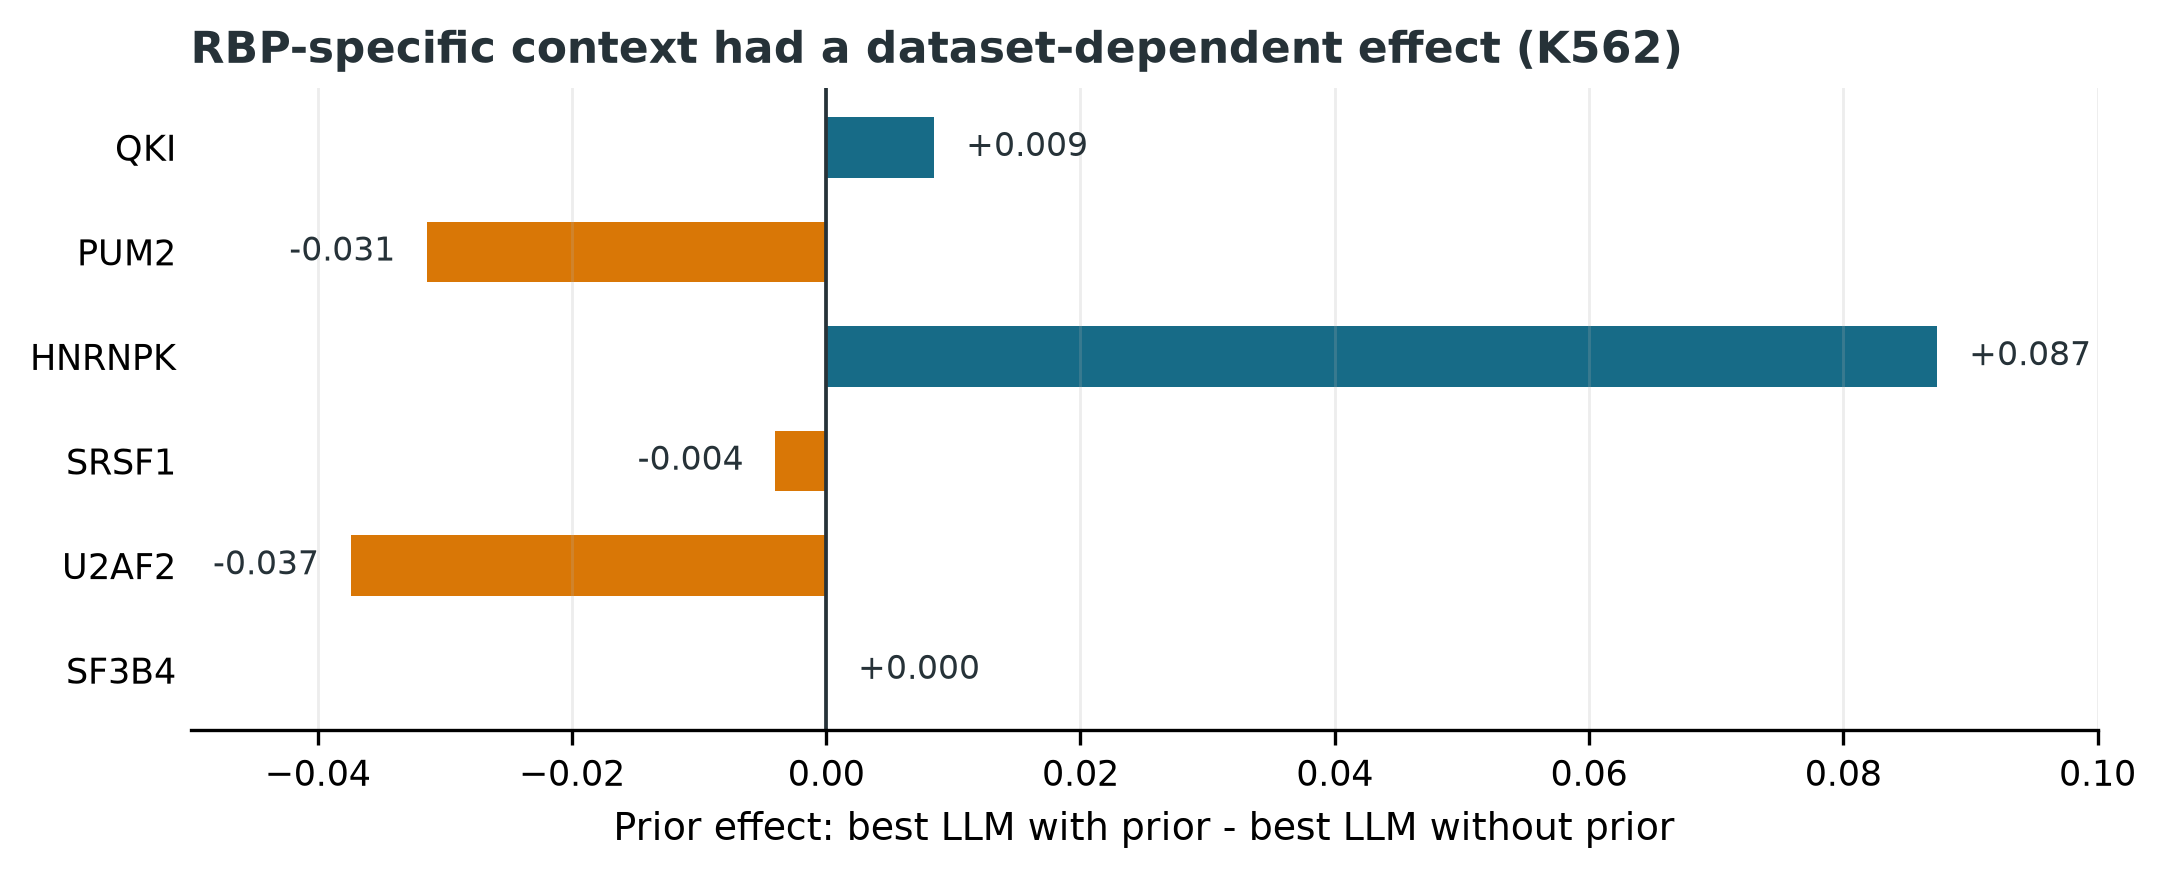
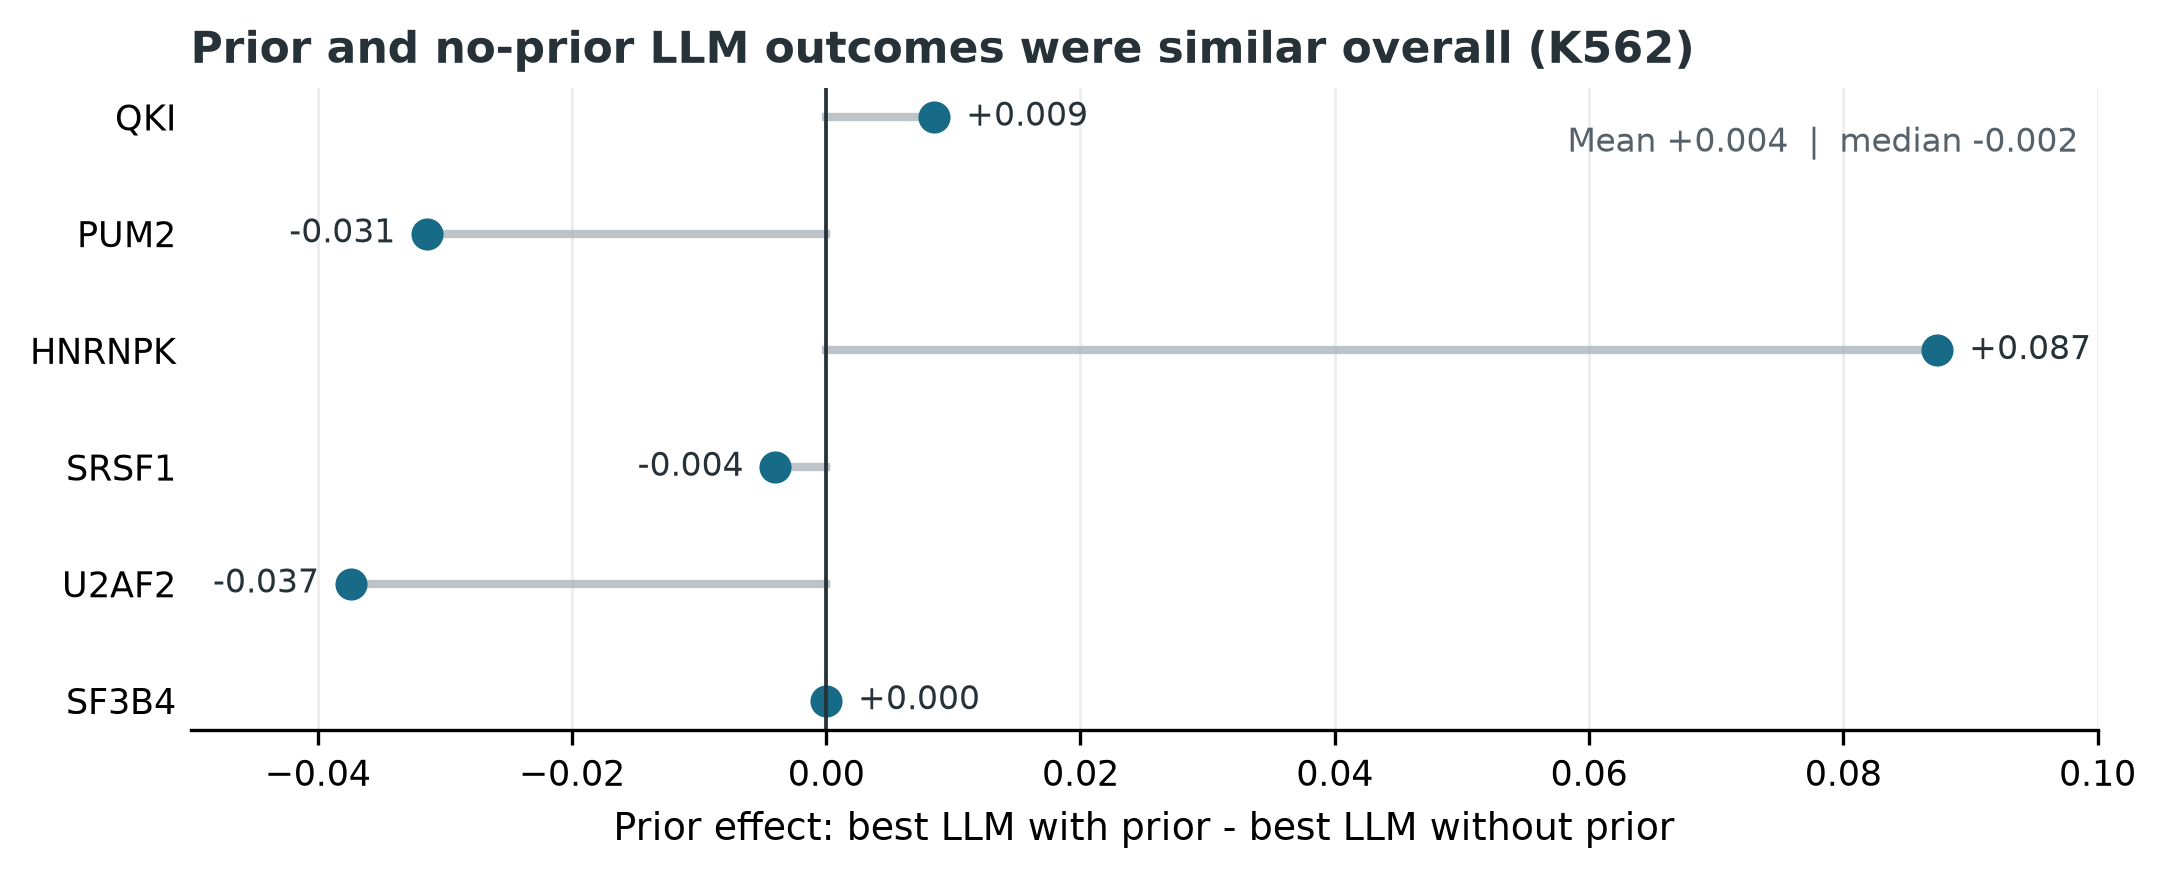
docs: temper prior ablation takeaway

diff --git a/docs/report/sections/4_results.tex b/docs/report/sections/4_results.tex
@@ -43,22 +43,25 @@ cohort. TPE also had ten startup samples before its stagnation rule applied. The
 comparison therefore measures the best result under the implemented stopping
 rules, not equal-budget sample efficiency.
 
-\subsection{Biological context had a dataset-dependent effect}
+\subsection{Prior and no-prior outcomes were similar overall}
 
-Six K562 datasets have both LLM conditions (Figure~\ref{fig:prior}). The prior
-increased the best score for HNRNPK by 0.087 and QKI by 0.009, decreased it for
-PUM2 by 0.031, U2AF2 by 0.037, and SRSF1 by 0.004, and made no difference for
-SF3B4. For the pre-specified crisp--degenerate--positional gradient, only HNRNPK
-benefited; PUM2 and U2AF2 did not. The additional datasets likewise show no
-uniform direction. RBP-specific context changed search outcomes, but these
-single-run ablations do not establish a class-level effect.
+Six K562 datasets have both LLM conditions (Figure~\ref{fig:prior}). Across these
+runs, the mean prior-minus-no-prior difference was $+0.004$ and the median was
+$-0.002$. The two conditions were therefore nearly even in aggregate, with only
+a slight mean edge for the prior that was driven by HNRNPK ($+0.087$). The other
+differences were smaller and mixed: QKI $+0.009$, PUM2 $-0.031$, U2AF2 $-0.037$,
+SRSF1 $-0.004$, and SF3B4 $0.000$. For the pre-specified
+crisp--degenerate--positional gradient, the directions did not form a monotonic
+trend. These single-run ablations support a dataset-specific interpretation but
+do not establish a general prior advantage or a class-level effect.
 
 \begin{figure}[H]
 \centering
 \includegraphics[width=0.84\linewidth]{images/prior_ablation.png}
-\caption{Effect of biological context on the best LLM score in six K562
-datasets. Positive values favor the prior-equipped arm. Each difference compares
-one trajectory per condition and has no uncertainty estimate.}
+\caption{Difference between the best prior and no-prior LLM scores in six K562
+datasets. The aggregate difference is close to zero; positive values favor the
+prior-equipped arm. Each point compares one trajectory per condition and has no
+uncertainty estimate.}
 \label{fig:prior}
 \end{figure}
 

diff --git a/docs/report/sections/5_discussion.tex b/docs/report/sections/5_discussion.tex
@@ -11,17 +11,16 @@ changes to increases above 0.20. This variation supports dataset-specific tuning
 although the current sample is too small to identify which experimental
 properties predict a gain.
 
-Second, biological context influenced LLM performance, but not uniformly. The
-positive HNRNPK ablation result is biologically plausible: C-rich motif and
-footprint information directed the agent toward sharper, more strongly supported
-calls. However, the same prior formulation reduced the best score on PUM2,
-U2AF2, and slightly on SRSF1, while SF3B4 was unchanged. For U2AF2, sequence
-motifs are an incomplete description of binding because position relative to
-splice sites is central. More generally, one trajectory per condition cannot
-distinguish a protein-class effect from dataset idiosyncrasies or stochastic LLM
-behavior. The HNRNPK result should therefore be treated as a candidate mechanism
-for further testing, not evidence that priors generally benefit proteins with
-degenerate motifs.
+Second, prior and no-prior LLM performance was broadly comparable. The mean
+difference gave the prior a slight edge of 0.004, but the median was $-0.002$:
+two datasets favored the prior, three favored no prior, and one was tied. The
+larger positive HNRNPK difference accounts for the small mean advantage, whereas
+the remaining differences were modest and mixed. This is consistent with a
+dataset-specific effect rather than a systematic benefit of biological context.
+For U2AF2, sequence motifs are also an incomplete description of binding because
+position relative to splice sites is central. With one trajectory per condition,
+protein-class effects cannot be separated from dataset idiosyncrasies or
+stochastic LLM behavior.
 
 TPE had the higher observed score in ten of 12 completed pairs. This is a
 consistent descriptive pattern across both cell lines. It is not, however,

diff --git a/scripts/analysis/report_figures.py b/scripts/analysis/report_figures.py
@@ -37,9 +37,6 @@ PRIOR_ABLATIONS = ["QKI", "PUM2", "HNRNPK", "SRSF1", "U2AF2", "SF3B4"]
 COLORS = {
     "llm": "#176B87",
     "optuna": "#6D4C7D",
-    "positive": "#176B87",
-    "negative": "#D97706",
-    "neutral": "#7A838C",
     "ink": "#263238",
     "line": "#BCC4CA",
 }
@@ -167,14 +164,13 @@ def fig_prior_ablation(by_job, outdir: Path):
         deltas.append(with_prior - without_prior)
 
     y_positions = list(range(len(PRIOR_ABLATIONS)))[::-1]
-    colors = [
-        COLORS["positive"] if delta > 0.00005 else
-        COLORS["negative"] if delta < -0.00005 else
-        COLORS["neutral"]
-        for delta in deltas
-    ]
+    ordered = sorted(deltas)
+    mean_delta = sum(deltas) / len(deltas)
+    median_delta = (ordered[2] + ordered[3]) / 2
     fig, ax = plt.subplots(figsize=(7.3, 3.0))
-    ax.barh(y_positions, deltas, height=0.58, color=colors)
+    for y, delta in zip(y_positions, deltas):
+        ax.plot([0, delta], [y, y], color=COLORS["line"], lw=2.0, zorder=1)
+        ax.scatter(delta, y, s=45, color=COLORS["llm"], zorder=2)
     ax.axvline(0, color=COLORS["ink"], lw=0.9)
     ax.set_yticks(y_positions)
     ax.set_yticklabels(PRIOR_ABLATIONS)
@@ -194,8 +190,18 @@ def fig_prior_ablation(by_job, outdir: Path):
             fontsize=8,
             color=COLORS["ink"],
         )
+    ax.text(
+        0.99,
+        0.94,
+        f"Mean {mean_delta:+.3f}  |  median {median_delta:+.3f}",
+        transform=ax.transAxes,
+        ha="right",
+        va="top",
+        fontsize=8,
+        color="#56616A",
+    )
     ax.set_title(
-        "RBP-specific context had a dataset-dependent effect (K562)",
+        "Prior and no-prior LLM outcomes were similar overall (K562)",
         loc="left",
         fontsize=10.5,
         weight="bold",

diff --git a/docs/report/sections/titlepage.tex b/docs/report/sections/titlepage.tex
@@ -31,13 +31,14 @@ degenerate solutions containing fewer than ten sites. We evaluated the framework
 on chromosome~21 in 12 completed paired LLM--TPE dataset/cell-line comparisons
 across K562 and HepG2, with six additional K562 prior ablations. TPE produced the
 higher observed best score in ten pairs. However, TPE runs used 14--16
-evaluations and LLM runs only five to seven, precluding a controlled efficiency ranking. Biological
-context increased the best LLM score for HNRNPK and QKI, reduced it for three
-datasets, and left one unchanged. The proposed monotonic relation between motif
-difficulty and prior benefit was not observed. These results establish a
+evaluations and LLM runs only five to seven, precluding a controlled efficiency
+ranking. Prior and no-prior LLM outcomes were nearly even overall: the mean
+prior advantage was 0.004 and the median difference was $-0.002$, with modest
+dataset-specific variation except for HNRNPK. The proposed monotonic relation
+between motif difficulty and prior benefit was not observed. These results establish a
 reproducible evaluation framework and an empirical baseline for a subset of the
-larger dataset registry; replicated,
-equal-budget experiments are required to compare optimizers and determine when
+larger dataset registry; replicated, equal-budget experiments are required to
+compare optimizers and determine when
 biological context improves peak calling.
 
 

diff --git a/docs/report/sections/6_conclusion.tex b/docs/report/sections/6_conclusion.tex
@@ -12,7 +12,7 @@ usually improved the shared default. TPE produced the higher observed best score
 in ten pairs. Because TPE usually
 received roughly twice as many evaluations, this is a result of the implemented
 protocol rather than a fair ranking of optimizer efficiency. Biological context
-improved the LLM result for HNRNPK and QKI, reduced it for three datasets, and
-left one unchanged; the predicted monotonic relationship between motif
-difficulty and prior benefit was not observed. The main outcome is therefore a
+gave the prior only a slight mean edge of 0.004, while the median difference was
+$-0.002$ and the direction varied by dataset. The predicted monotonic relationship
+between motif difficulty and prior benefit was not observed. The main outcome is therefore a
 reproducible test bed and a subset-level empirical baseline.
